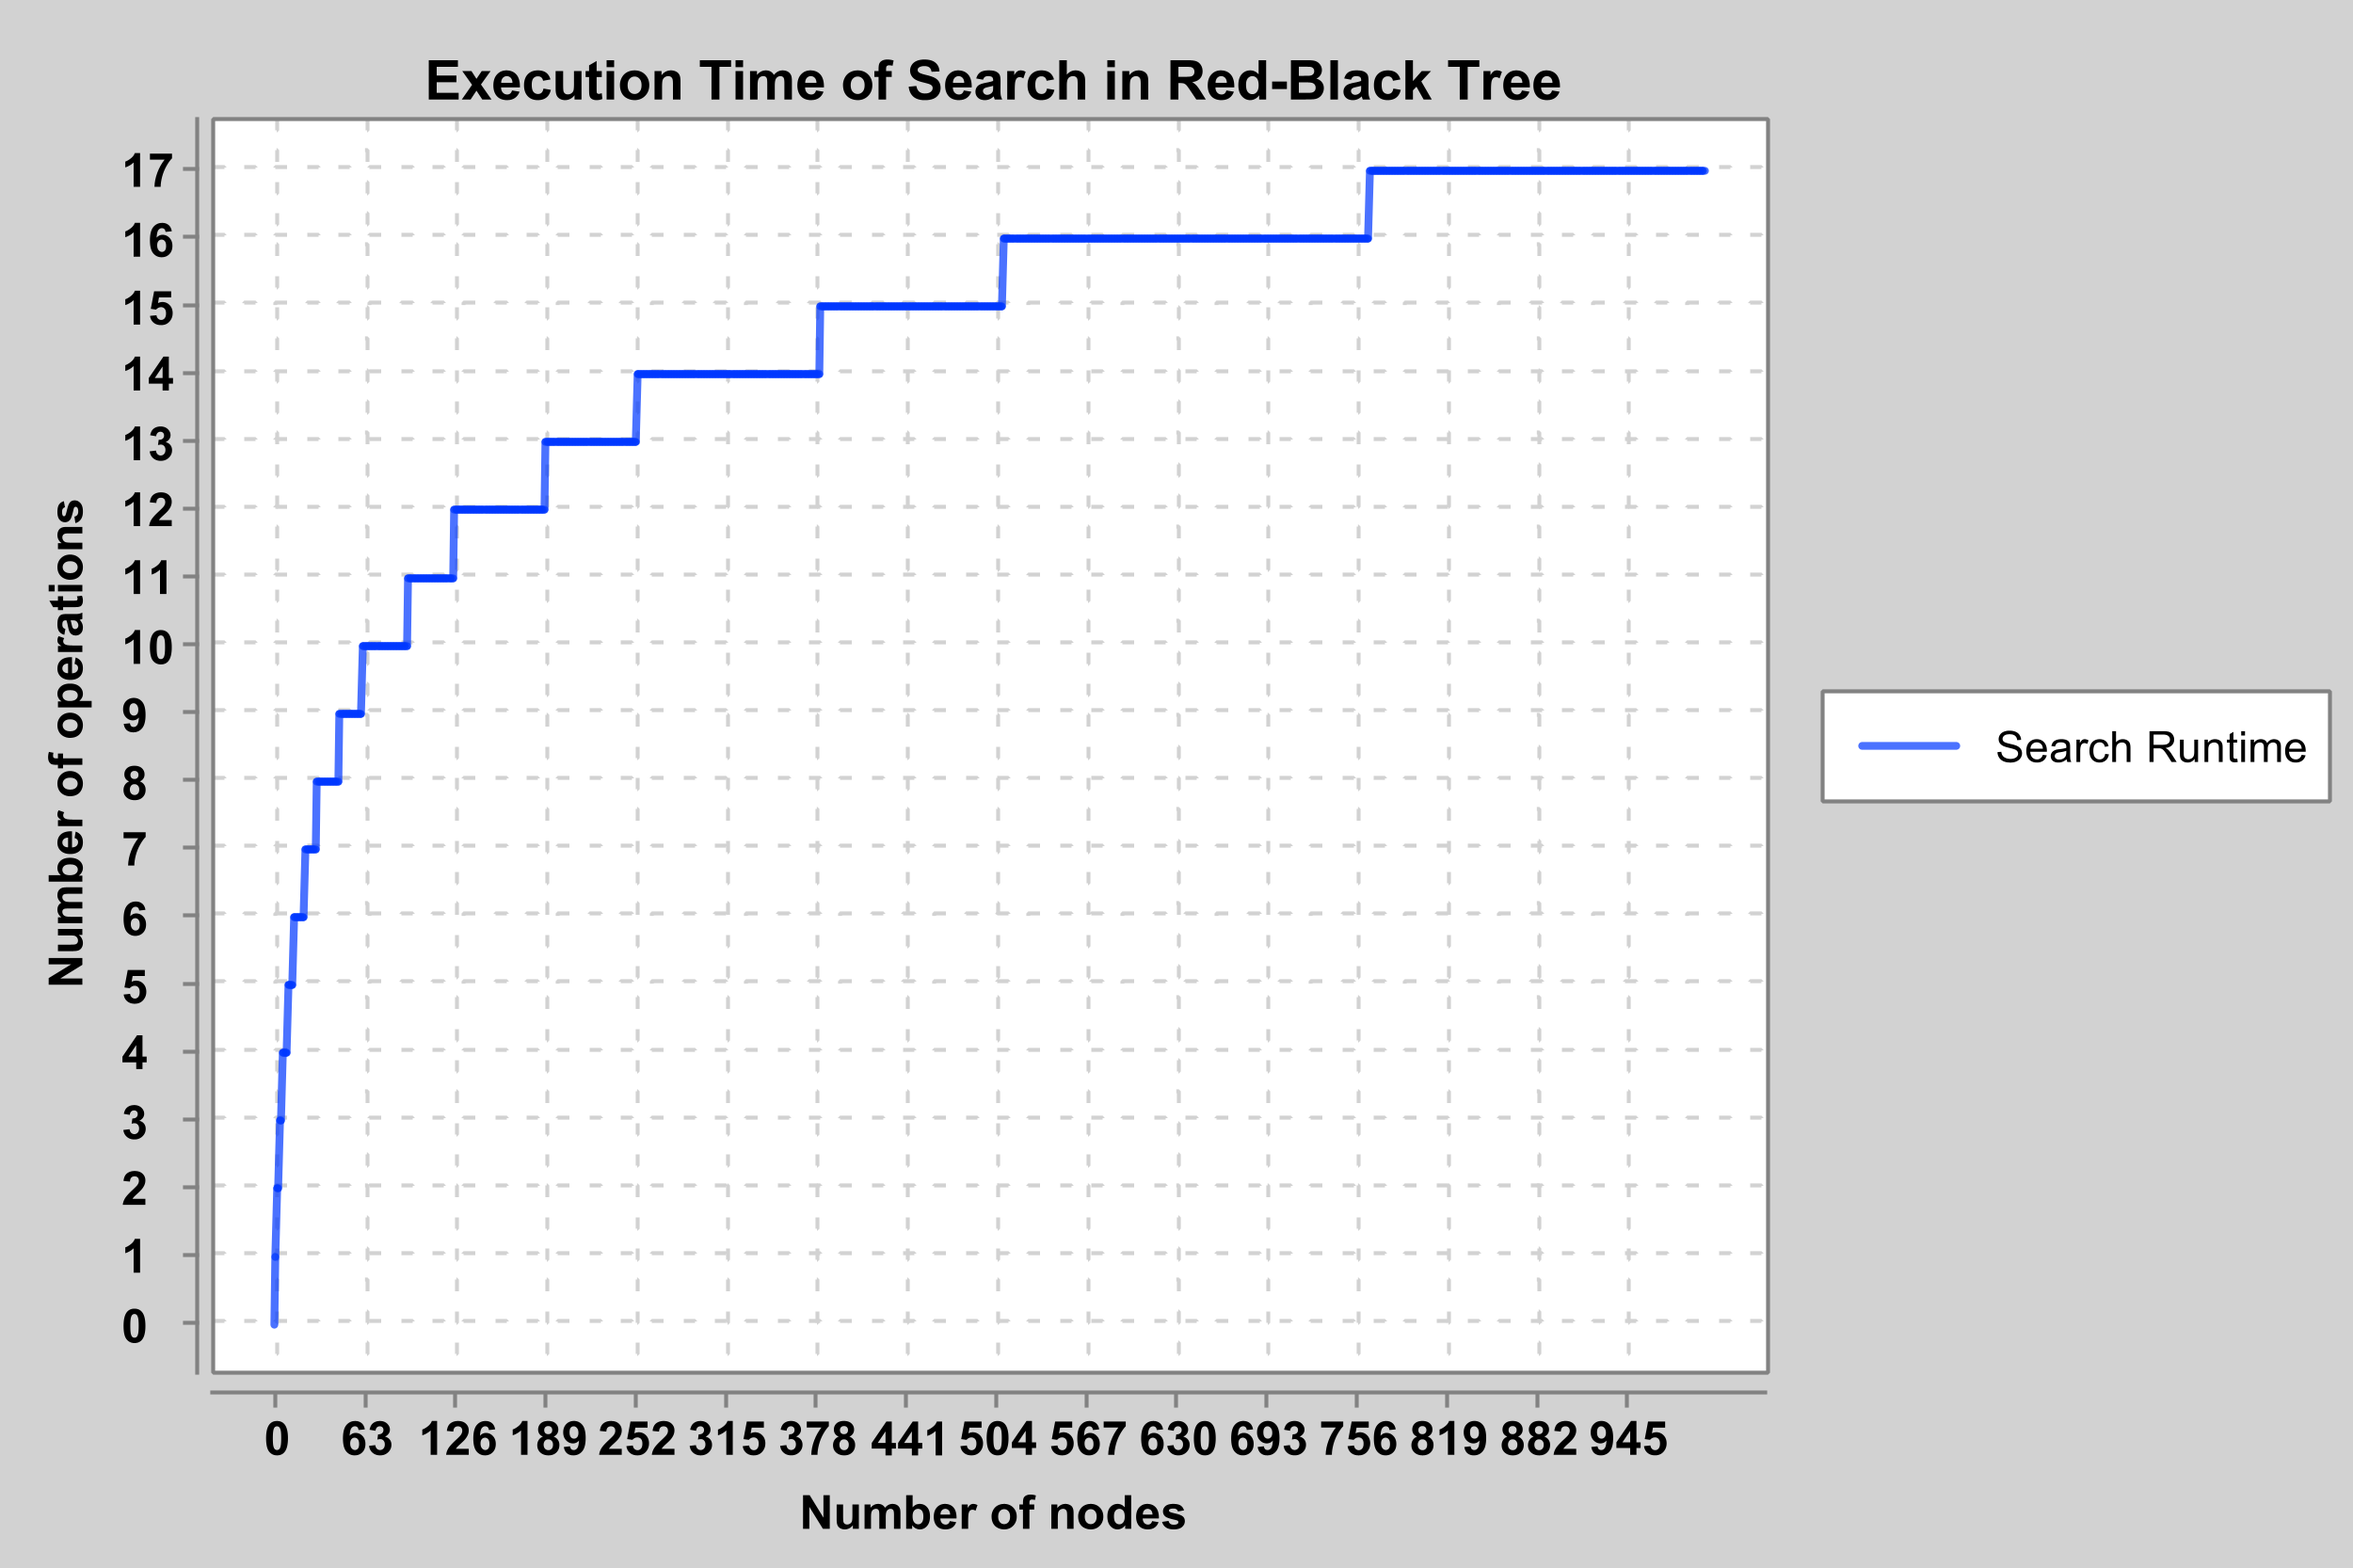
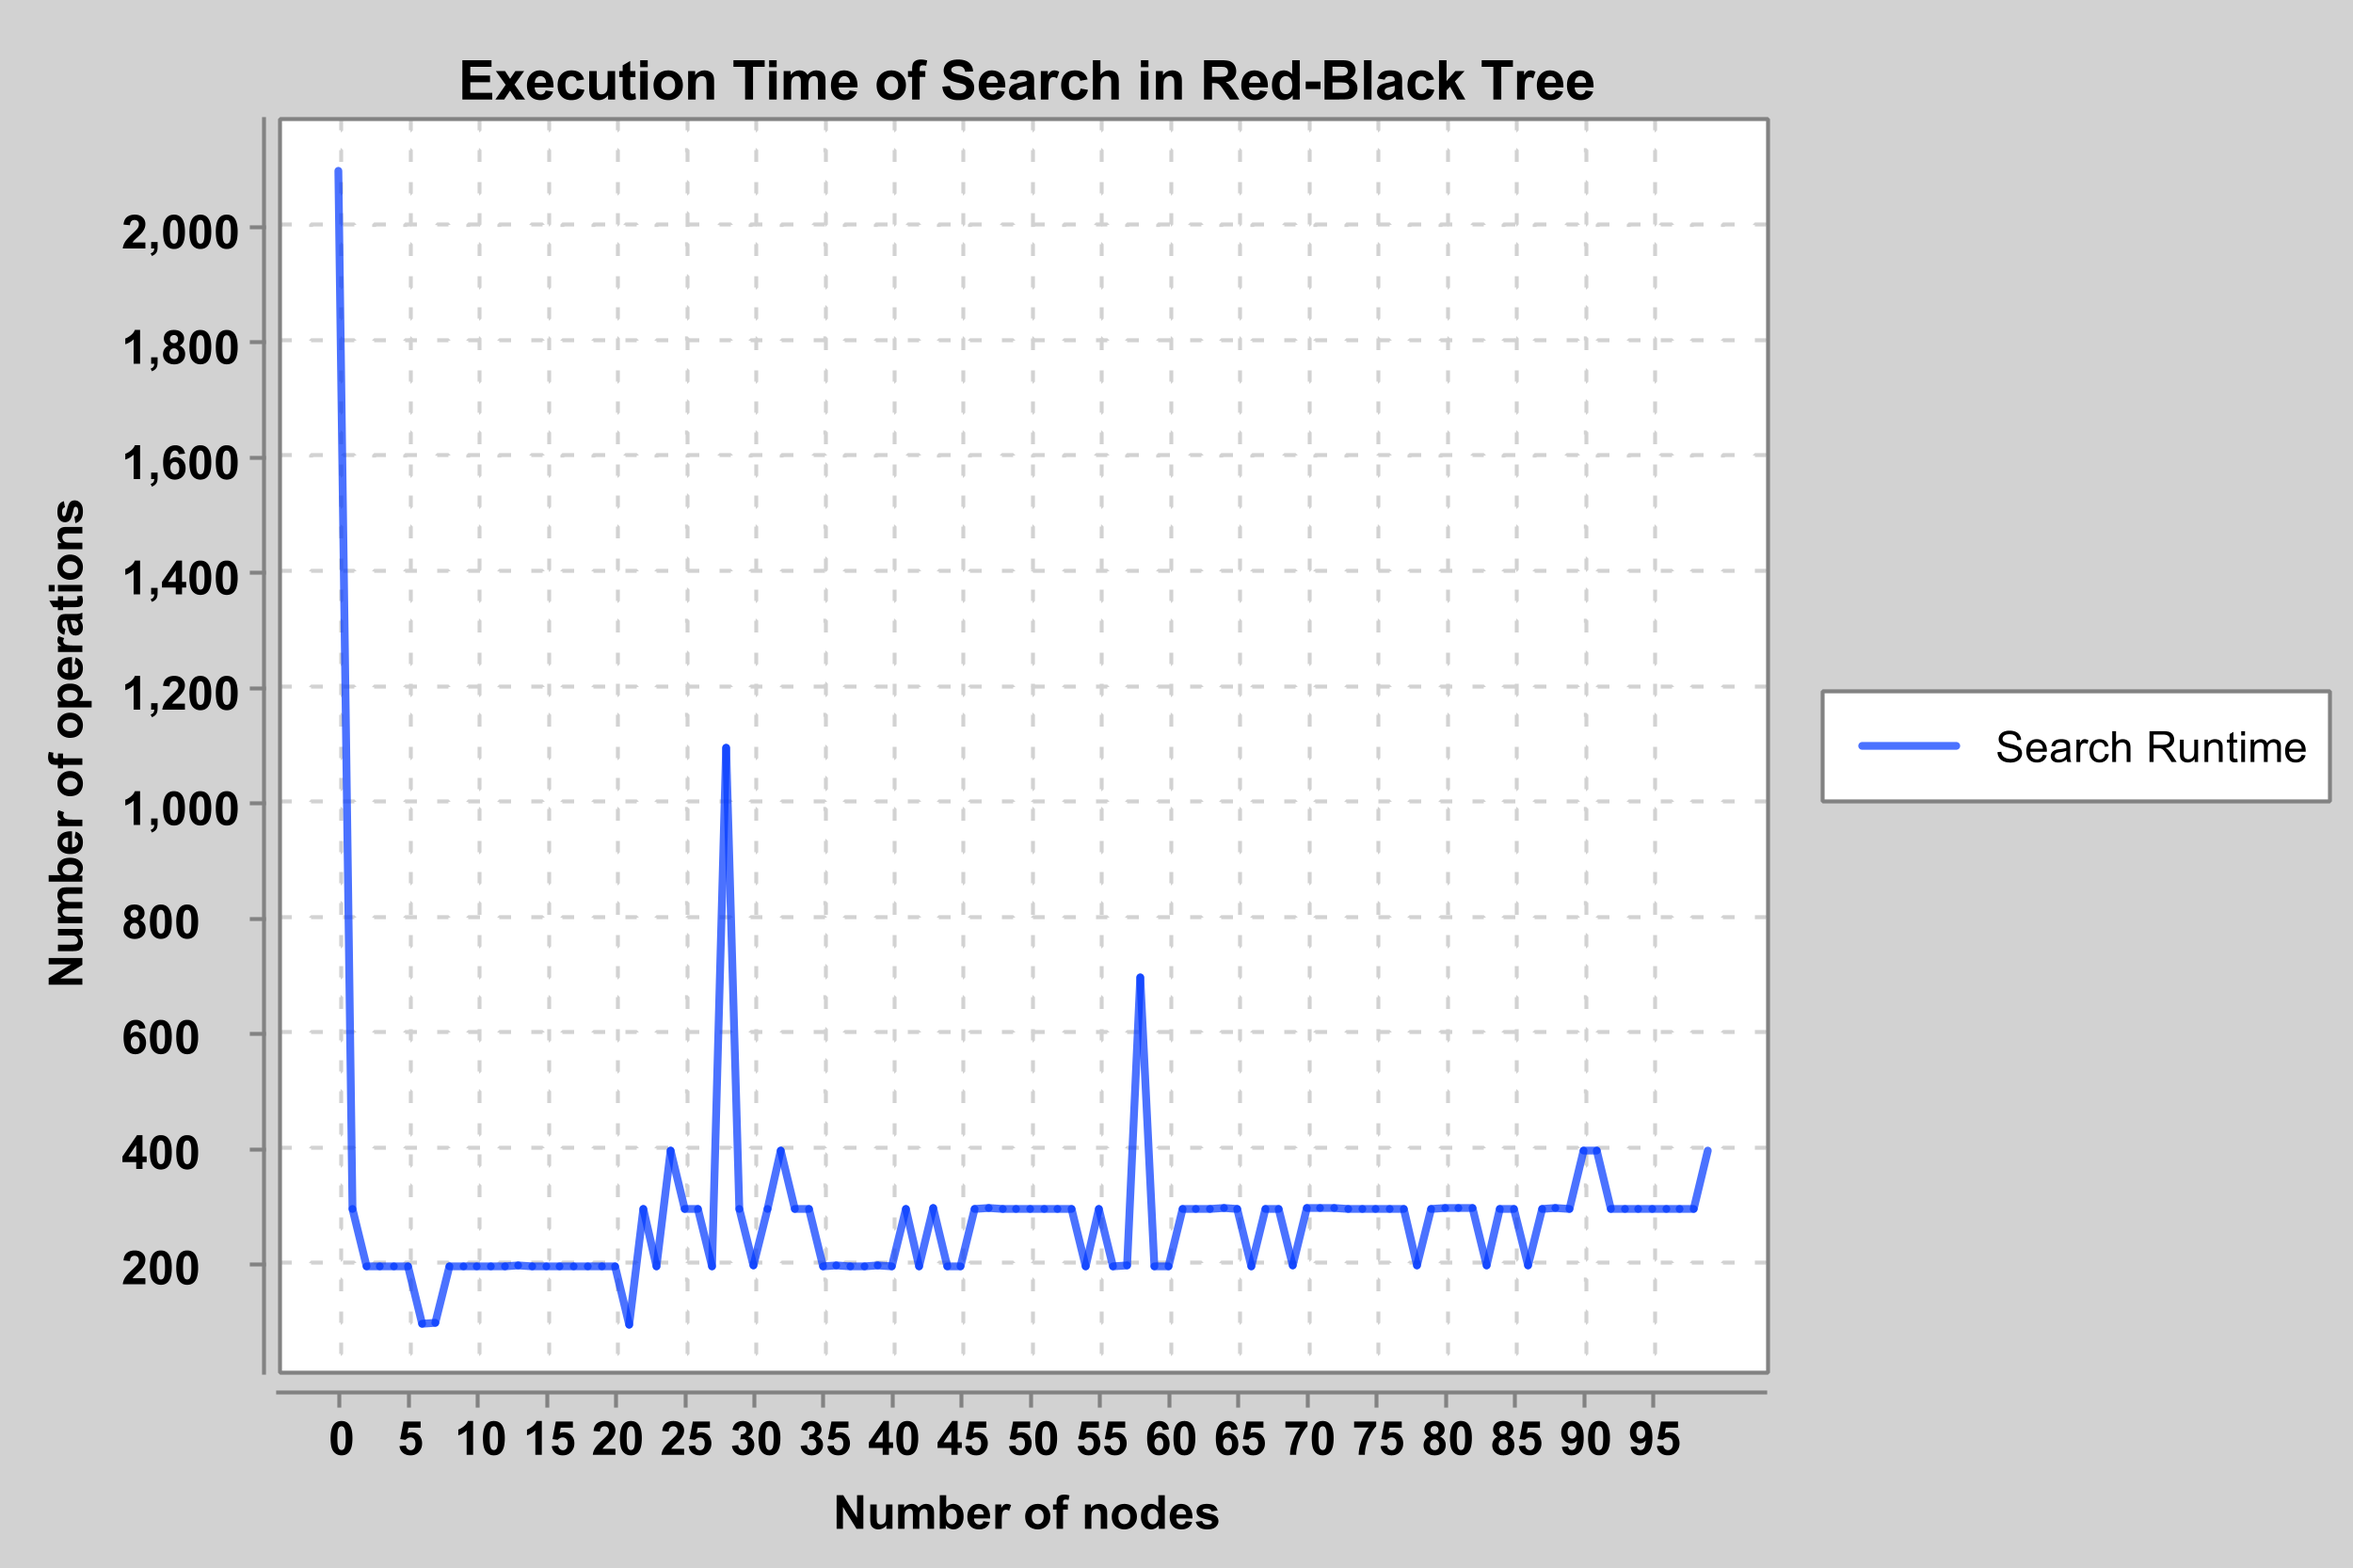
Added stuff

diff --git a/Proof_Activity/src/RedBlackTree.java b/Proof_Activity/src/RedBlackTree.java
@@ -46,7 +46,7 @@ public class RedBlackTree {
 
         // Iterates through the tree
         while (node != null){
-            counter++;
+//            counter++;
             // If found, the node will be return
             if (key == node.data) {
                 return node;
@@ -212,14 +212,17 @@ public class RedBlackTree {
     }
 
     public static int runSearch(int n){
-        counter = 0;
         RedBlackTree tree = new RedBlackTree();
         for (int i = 1; i <= n ; i++) {
             tree.insertNode(i);
         }
+        long start = System.nanoTime();
         tree.searchTree(n);
+        long end = System.nanoTime();
 
-        return counter;
+        int duration = (int) (end - start);
+
+        return duration;
     }
 
 
@@ -250,40 +253,40 @@ public class RedBlackTree {
     }
 
     public static void main(String[] args) throws IOException {
-        RedBlackTree bst = new RedBlackTree();
-
-        for (int i = 0; i < 50; i++) {
-            bst.insertNode(i);
+//        RedBlackTree bst = new RedBlackTree();
+//
+//        for (int i = 0; i < 50; i++) {
+//            bst.insertNode(i);
+//        }
+//        System.out.println(counter);
+//        bst.prettyPrint();
+//
+//
+        int samples = 100;
+        double[] ns = new double[samples];
+        double[] execution_times = new double[samples];
+        for (int i=0; i<samples; i++) {
+            execution_times[i] = runSearch(i);
+            ns[i] = i;
         }
-        System.out.println(counter);
-        bst.prettyPrint();
-//
-//
-//        int samples = 1000;
-//        double[] ns = new double[samples];
-//        double[] execution_times = new double[samples];
+
+        // create chart
+        XYChart chart = QuickChart.getChart("Execution Time of Search in Red-Black Tree", "Number of nodes", "Runtime (ns)", "Search Runtime", ns, execution_times);
+        double[] n2s = new double[samples];
+        // add reference quadratic
 //        for (int i=0; i<samples; i++) {
-//            execution_times[i] = runSearch(i);
-//            ns[i] = i;
+//            n2s[i] = (Math.pow(ns[i], 2)/25 + 500);
 //        }
-//
-//        // create chart
-//        XYChart chart = QuickChart.getChart("Execution Time of Search in Red-Black Tree", "Number of nodes", "Number of operations", "Search Runtime", ns, execution_times);
-//        double[] n2s = new double[samples];
-//        // add reference quadratic
-////        for (int i=0; i<samples; i++) {
-////            n2s[i] = (Math.pow(ns[i], 2)/25 + 500);
-////        }
-////        chart.addSeries("n^2 / 25 + 500", ns, n2s).setMarker(SeriesMarkers.NONE);;
-//        // display chart
-//        //new SwingWrapper<>(chart).displayChart();
-//
-//        // save chart
-//        try {
-//            BitmapEncoder.saveBitmapWithDPI(chart, "./Run_Time_Chart", BitmapFormat.PNG, 300);
-//        } catch (IOException e) {
-//            e.printStackTrace();
-//        }
+//        chart.addSeries("n^2 / 25 + 500", ns, n2s).setMarker(SeriesMarkers.NONE);;
+        // display chart
+        //new SwingWrapper<>(chart).displayChart();
+
+        // save chart
+        try {
+            BitmapEncoder.saveBitmapWithDPI(chart, "./Run_Time_Chart", BitmapFormat.PNG, 300);
+        } catch (IOException e) {
+            e.printStackTrace();
+        }
 
 
 
